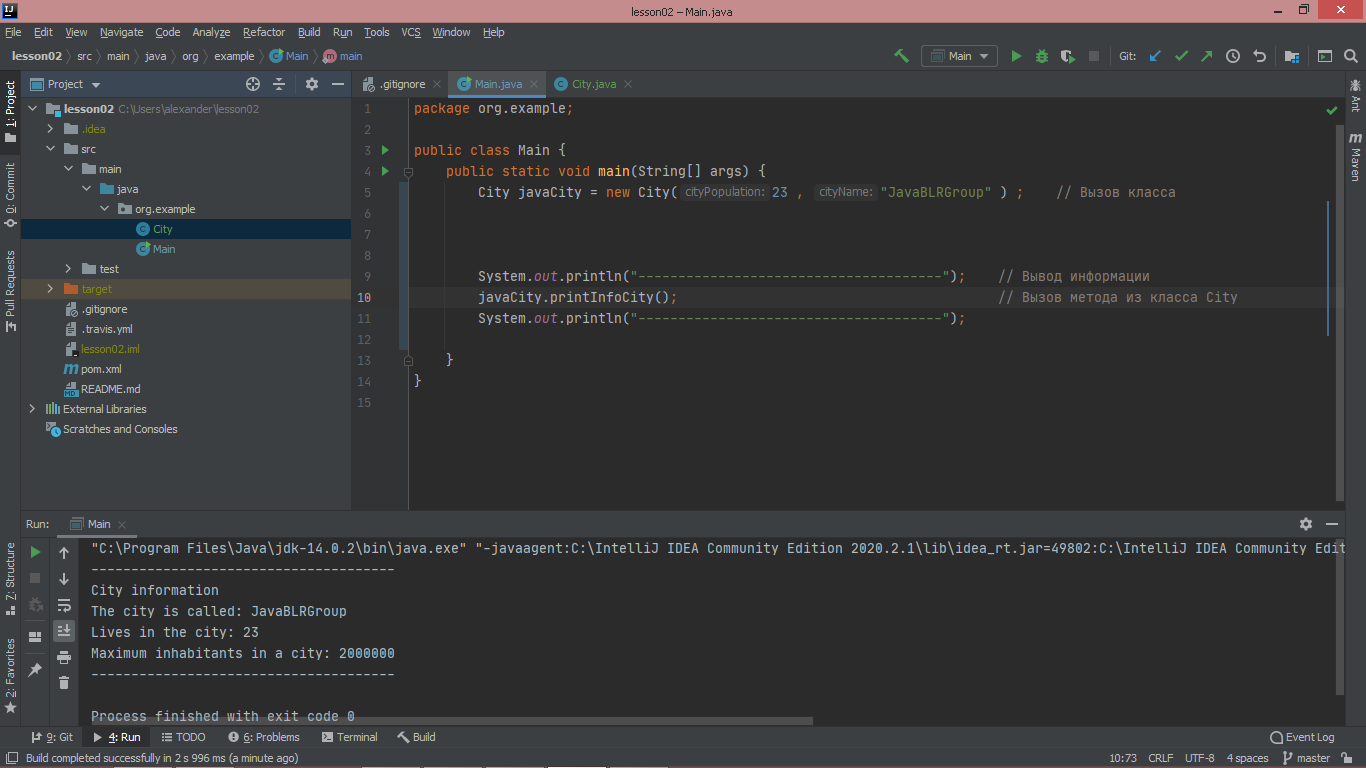
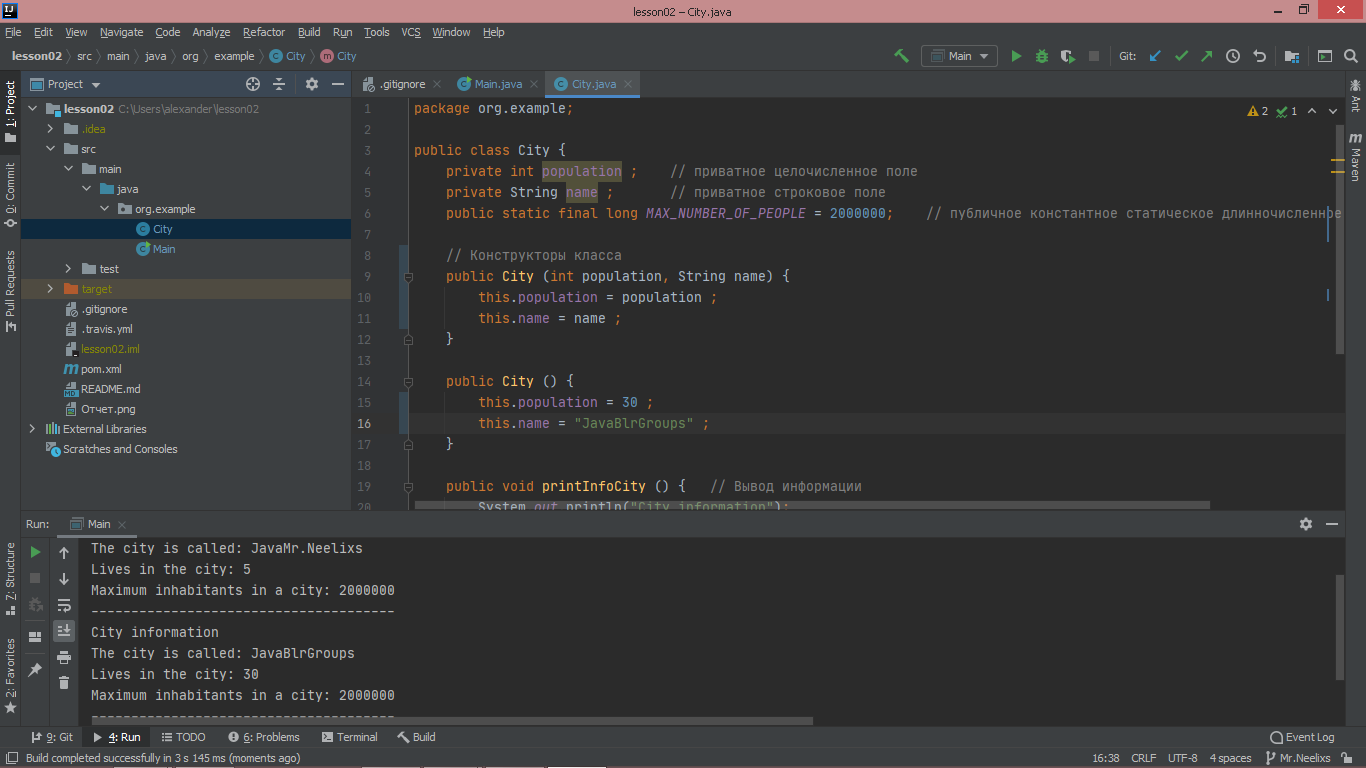
Task for lesson number 2

diff --git a/src/main/java/org/example/City.java b/src/main/java/org/example/City.java
@@ -5,13 +5,15 @@ public class City {
     private String name ;       // приватное строковое поле
     public static final long MAX_NUMBER_OF_PEOPLE = 2000000;    // публичное константное статическое длинночисленное (Long) поле
 
-    public City (int cityPopulation, String cityName) {     // Кастомный конструктор
-        this.population = cityPopulation ;
-        this.name = cityName ;
+    // Конструкторы класса
+    public City (int population, String name) {
+        this.population = population ;
+        this.name = name ;
     }
 
     public City () {
-        // Пустой Конструктор
+        this.population = 30 ;
+        this.name = "JavaBlrGroups" ;
     }
 
     public void printInfoCity () {   // Вывод информации

diff --git a/src/main/java/org/example/Main.java b/src/main/java/org/example/Main.java
@@ -2,12 +2,14 @@ package org.example;
 
 public class Main {
     public static void main(String[] args) {
-        City javaCity = new City(23 , "JavaBLRGroup" ) ;    // Вызов класса
-
+        City castCity = new City() ;
+        City javaCity = new City(5 , "JavaMr.Neelixs" ) ;    // Вызов класса
 
 
         System.out.println("--------------------------------------");    // Вывод информации
         javaCity.printInfoCity();                                        // Вызов метода из класса City
+        System.out.println("--------------------------------------");
+        castCity.printInfoCity();
         System.out.println("--------------------------------------");
 
     }
